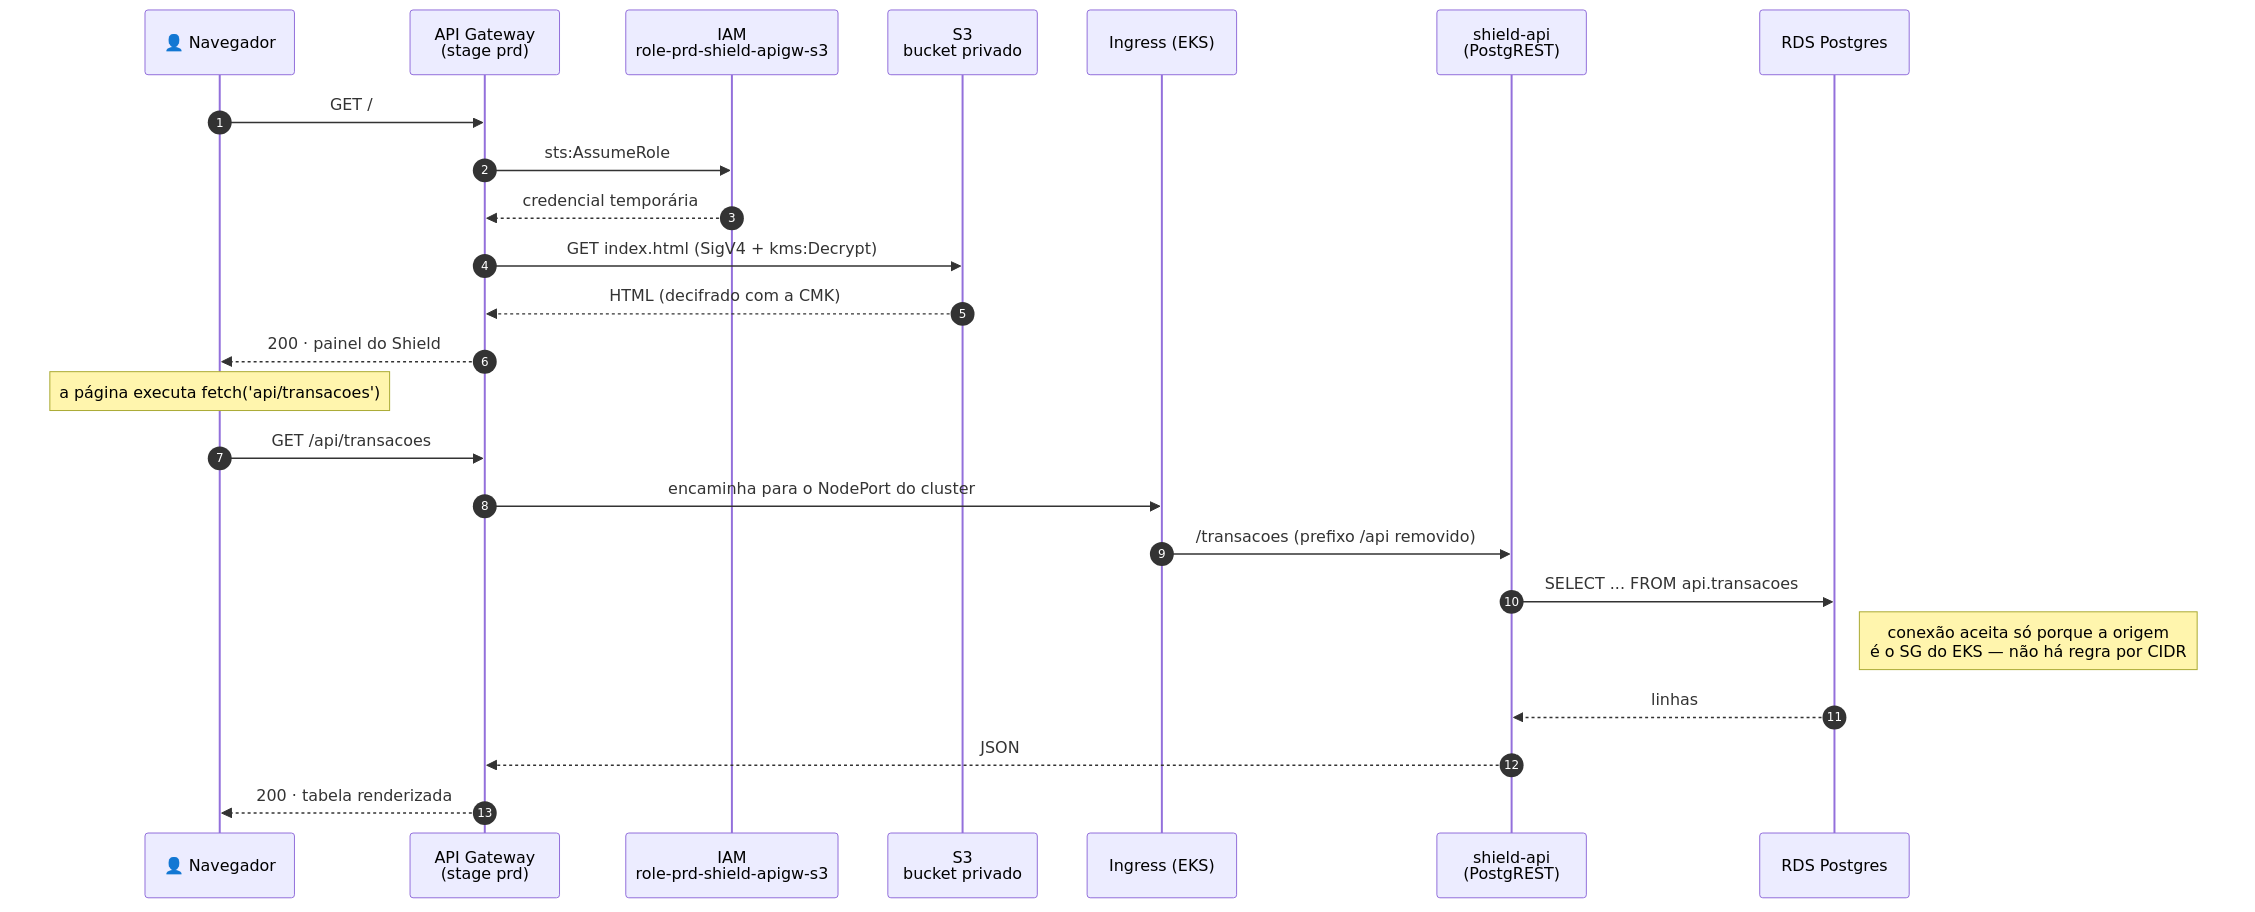
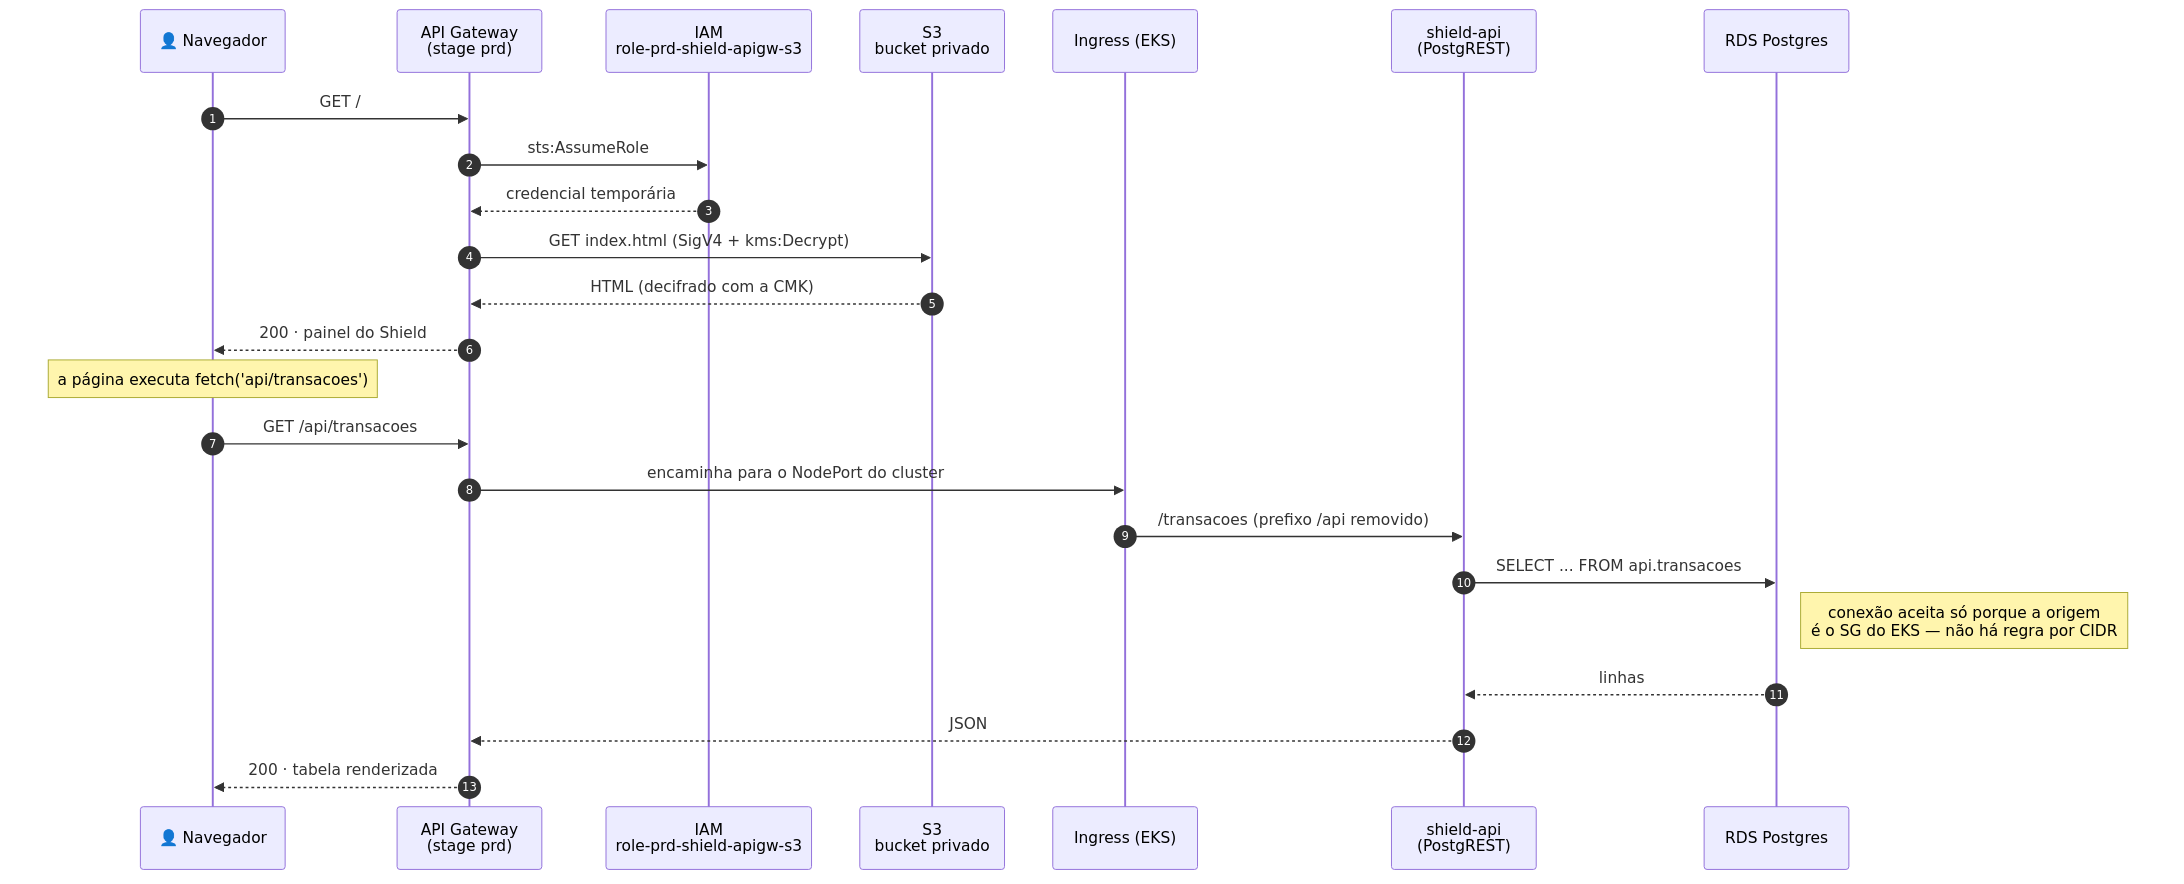
docs: redesenha a arquitetura com os icones oficiais da AWS
Troca o diagrama de arquitetura de mermaid para `diagrams` (mingrammer), que
traz o pacote oficial de icones de arquitetura da AWS. Cada recurso passa a
aparecer com o icone real do servico: API Gateway, S3, EC2, RDS, KMS, IAM,
NAT e Internet Gateway, mais os icones do Kubernetes para ingress e deployment.

- docs/arquitetura_aws.py: fonte do desenho (codigo, versionavel e revisavel)
- docs/arquitetura.png: render com os icones oficiais
- `make diagram` roda os dois geradores em container (diagrams + mermaid),
  sem exigir instalacao local de python, graphviz ou node
- docs/arquitetura.mmd removido: o .py passa a ser a fonte de verdade

O sequence diagram do fluxo S3 + API Gateway segue em mermaid, que e mais
adequado para sequencia e ja renderizava bem.

Layout ajustado ate nao sobrar cruzamento nem espaco morto: controles
transversais sem arestas (ligar KMS/IAM a cada recurso embaralhava o desenho
inteiro) e ancoragem por aresta invisivel para o graphviz nao espalhar os
clusters.

diff --git a/docs/arquitetura_aws.py b/docs/arquitetura_aws.py
@@ -1,0 +1,86 @@
+"""Diagrama de arquitetura do Shield com os ícones oficiais da AWS.
+
+Gerado por `make diagram` (roda em container, não precisa instalar nada).
+Fonte de verdade do desenho: editar aqui e rodar `make diagram`.
+"""
+from diagrams import Diagram, Cluster, Edge
+from diagrams.aws.compute import EC2
+from diagrams.aws.database import RDSPostgresqlInstance
+from diagrams.aws.network import APIGateway, InternetGateway, NATGateway, VPC
+from diagrams.aws.security import KMS, IAMRole
+from diagrams.aws.storage import S3
+from diagrams.k8s.compute import Deploy
+from diagrams.k8s.network import Ingress
+from diagrams.onprem.client import Users
+
+GRAPH = {
+    "fontsize": "16",
+    "fontname": "Helvetica",
+    "pad": "0.6",
+    "nodesep": "0.7",
+    "ranksep": "1.2",
+    "splines": "spline",
+    "bgcolor": "white",
+}
+NODE = {"fontsize": "13", "fontname": "Helvetica"}
+EDGE = {"fontsize": "12", "fontname": "Helvetica"}
+
+with Diagram(
+    "Shield · prd · us-east-1",
+    filename="arquitetura",
+    outformat="png",
+    show=False,
+    direction="LR",
+    graph_attr=GRAPH,
+    node_attr=NODE,
+    edge_attr=EDGE,
+):
+    user = Users("Navegador")
+
+    with Cluster("Borda — fora da VPC"):
+        apigw = APIGateway("API Gateway\napi-prd-shield-us · prd")
+        bucket = S3("shield-prd-frontend-us-east-1\nprivado · ACL private\nSSE-KMS · BPA 4/4")
+
+    with Cluster("VPC vpc-prd-shield-us · 10.20.0.0/16 · 3 AZs"):
+
+        with Cluster("Pública · 10.20.0-2.0/24"):
+            bastion = EC2("bastion\nEBS cifrado · IMDSv2\nSSM · sem chave SSH")
+            nat = NATGateway("NAT Gateway")
+            igw = InternetGateway("Internet Gateway")
+
+        with Cluster("Aplicação · 10.20.10-12.0/24 · EKS eks-prd-shield-us"):
+            ing = Ingress("ingress\nstrip /api")
+            api = Deploy("shield-api\nPostgREST · ClusterIP")
+
+        with Cluster("Dados · 10.20.20-22.0/24 · sem rota default"):
+            rds = RDSPostgresqlInstance(
+                "rds-prd-shield-us\ncifrado prd-shield-rds\nprivado · backup 7d"
+            )
+
+    # Controles transversais: sem arestas de propósito. Ligá-los a cada recurso
+    # cifrado/autorizado produz um emaranhado que atravessa o desenho inteiro —
+    # a informação vive melhor nos labels dos próprios recursos e nas tabelas.
+    with Cluster("Controles transversais — aplicados aos recursos acima"):
+        kms = KMS("KMS · rotação anual\nprd-shield-ebs · prd-shield-rds\nprd-shield-s3")
+        iam = IAMRole("IAM · uma role por função\neks-cluster · eks-node\nbastion · apigw-s3")
+
+    # Caminho da requisição
+    user >> Edge(label="GET /") >> apigw
+    user >> Edge(label="GET /api/*") >> apigw
+    apigw >> Edge(label="s3:GetObject\n+ kms:Decrypt") >> bucket
+    apigw >> Edge(label="/api/*") >> ing
+    ing >> api
+    api >> Edge(label="5432 · só pelo SG do EKS") >> rds
+
+    # Saída para a internet da camada de aplicação
+    api >> Edge(label="egress", style="dashed", color="gray") >> nat
+    nat >> igw
+
+    # Sem nenhuma aresta o bastion flutua e estica a VPC; esta ancora ele no
+    # mesmo rank da camada de aplicação, que é para onde ele de fato fala.
+    bastion >> Edge(label="debug", style="dotted", color="gray") >> ing
+
+    # Arestas invisíveis só para posicionar: sem elas o bloco de controles
+    # flutua num canto e estica o desenho com espaço vazio.
+    bucket >> Edge(style="invis") >> kms
+    kms >> Edge(style="invis") >> iam

diff --git a/fluxo-de-construcao.md b/fluxo-de-construcao.md
@@ -27,58 +27,8 @@ make open    # abre o painel do Shield no navegador
 
 ![Arquitetura do Shield na AWS](docs/arquitetura.png)
 
-<details><summary>fonte mermaid do diagrama</summary>
-
-```mermaid
-flowchart LR
-    user(["👤 Navegador"])
-
-    subgraph aws["☁  AWS · us-east-1 · conta 000000000000"]
-
-        subgraph edge["Borda — fora da VPC"]
-            apigw["<b>API Gateway</b> REST · stage prd<br/>api-prd-shield-us<br/>GET / · ANY /api/{proxy+} · ANY /{proxy+}"]
-            s3[("<b>S3</b> shield-prd-frontend-us-east-1<br/>privado · ACL private · versionado<br/>SSE-KMS prd-shield-s3 · BPA 4/4")]
-        end
-
-        subgraph vpc["<b>VPC</b> vpc-prd-shield-us · 10.20.0.0/16 · 3 AZs"]
-
-            subgraph pub["🌐 Pública · 10.20.0-2.0/24"]
-                bastion["<b>EC2</b> bastion<br/>EBS cifrado prd-shield-ebs<br/>IMDSv2 · SSM · sem chave SSH"]
-                nat["NAT Gateway"]
-                igw["Internet Gateway"]
-            end
-
-            subgraph app["🔒 Aplicação · 10.20.10-12.0/24 · EKS eks-prd-shield-us"]
-                ing["ingress<br/>strip /api<br/>NodePort"]
-                api["shield-api<br/>PostgREST · ClusterIP"]
-            end
-
-            subgraph data["🔐 Dados · 10.20.20-22.0/24 · sem rota default"]
-                rds[("<b>RDS</b> Postgres<br/>rds-prd-shield-us<br/>cifrado prd-shield-rds · privado<br/>backup 7d · deletion protection")]
-            end
-        end
-    end
-
-    user -->|"GET /"| apigw
-    user -->|"GET /api/*"| apigw
-    apigw -->|"role-prd-shield-apigw-s3<br/>s3:GetObject + kms:Decrypt"| s3
-    apigw -->|"/api/*"| ing
-    ing --> api
-    api -->|"5432 · só pelo SG do EKS"| rds
-    api -.->|"egress"| nat
-    nat --> igw
-
-    classDef edgeC fill:#fff3e0,stroke:#e8873a,stroke-width:2px,color:#000
-    classDef pubC  fill:#e3f2fd,stroke:#4a80c9,stroke-width:2px,color:#000
-    classDef appC  fill:#e8f5e9,stroke:#3f9c82,stroke-width:2px,color:#000
-    classDef dataC fill:#fce4ec,stroke:#c2185b,stroke-width:2px,color:#000
-    class apigw,s3 edgeC
-    class igw,nat,bastion pubC
-    class ing,api appC
-    class rds dataC
-```
-
-</details>
+> Desenhado com [`diagrams`](https://diagrams.mingrammer.com/) sobre o pacote oficial
+> de ícones de arquitetura da AWS. Fonte: [`docs/arquitetura_aws.py`](docs/arquitetura_aws.py) — `make diagram` regenera o PNG.
 
 **Por que as camadas são três e não duas.** Separar "app" de "dados" parece
 excesso até o primeiro incidente: se o EKS e o RDS dividem route table e NACL,

diff --git a/README.md b/README.md
@@ -8,7 +8,7 @@ Ambiente de estudo para simular cenários de EC2, RDS, EKS e IAM localmente, usa
 
 ![Arquitetura do Shield na AWS](docs/arquitetura.png)
 
-> Fontes em `docs/*.mmd`; `make diagram` regenera os PNGs.
+> Ícones oficiais da AWS via [`diagrams`](https://diagrams.mingrammer.com/). Fonte em `docs/arquitetura_aws.py`; `make diagram` regenera os PNGs.
 >
 > As seções 1 a 3 abaixo são o setup de máquina (WSL2 + Docker), feito uma vez só.
 
@@ -243,7 +243,7 @@ A lista completa, com as divergências de API Gateway, EKS e KMS observadas nos 
 compose.yaml            # emulador (:4566) + console web (:4500)
 env.sh                  # exports do AWS CLI apontando para o emulador
 Makefile                # atalhos: make lab / open / test / clean
-docs/                   # diagramas: fontes .mmd + PNGs (make diagram)
+docs/                   # diagramas: arquitetura_aws.py (ícones AWS) + .mmd + PNGs
 frontend/               # o SPA do Shield publicado no bucket S3
 scripts/
   lab.sh                # orquestrador dos alvos do Makefile
